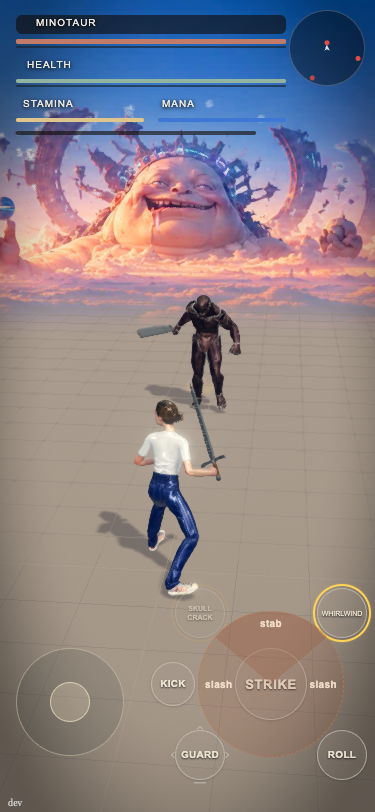
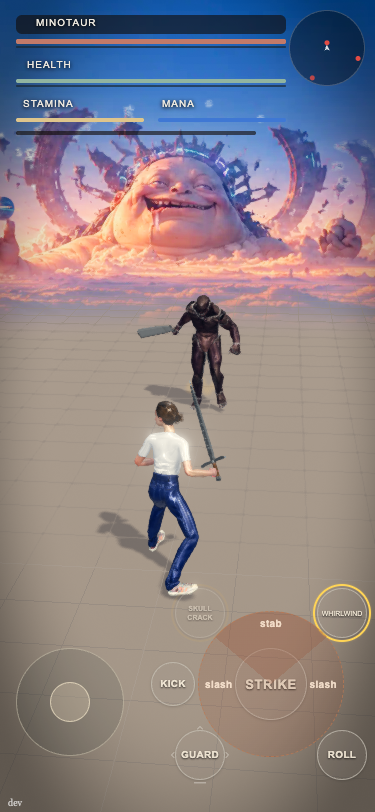
fx: ring dropMetres 30 so the alien sits in a portrait phone's sky band

diff --git a/src/sim/validate.js b/src/sim/validate.js
@@ -498,7 +498,7 @@ function checkSkyline(s) {
 
 // data/stage.json `skyline.ring` (src/fight/skyring.ts): the south, east and west plates. Plain WebP file names, one plate per bearing, ramps inside the overlap, colours as #rrggbb, query words that
 // differ from the other skyline ones, and the tallest arc (the baked picture's aspect at `spanDegrees`) inside the sky cylinder and the far plane.
-export const SKYRING_KEYS = ['about', 'on', 'query', 'v1', 'spanDegrees', 'overlapDegrees', 'orderOffset', 'topFadeFraction', 'bottomFadeFraction', 'segments', 'bakedAspect', 'lazy', 'desktop', 'bake', 'plates'];
+export const SKYRING_KEYS = ['about', 'on', 'query', 'v1', 'spanDegrees', 'overlapDegrees', 'dropMetres', 'orderOffset', 'topFadeFraction', 'bottomFadeFraction', 'segments', 'bakedAspect', 'lazy', 'desktop', 'bake', 'plates'];
 export const SKYRING_PLATE_KEYS = ['id', 'direction', 'on', 'compassDegrees', 'mobile', 'desktop', 'rampLeftDegrees', 'rampRightDegrees', 'grade', 'bake'];
 function checkSkyRing(s) {
   const e = [], at = (p, m) => e.push(`stage.skyline.ring.${p}: ${m}`), r = s.ring, obj = (o) => o !== null && typeof o === 'object' && !Array.isArray(o);
@@ -509,7 +509,7 @@ function checkSkyRing(s) {
   const taken = [s.query, s.followQuery, s.views && s.views.query, s.views && s.views.foeFadeQuery, s.fold && s.fold.query, s.plate && s.plate.query, s.plate && s.plate.flatQuery, s.plate && s.plate.anim && s.plate.anim.query];
   if (typeof r.query === 'string' && taken.includes(r.query)) at('query', 'must differ from the other skyline query words');
   const rng = (o, k, lo, hi, int, path = k) => { if (!Number.isFinite(o[k]) || o[k] < lo || o[k] > hi || (int && !Number.isInteger(o[k]))) at(path, `must be ${int ? 'an integer' : 'a finite number'} in ${lo}..${hi}`); };
-  rng(r, 'spanDegrees', 90, 120); rng(r, 'overlapDegrees', 0, 30); rng(r, 'orderOffset', 1, 90, true); rng(r, 'topFadeFraction', 0, 0.5); rng(r, 'bottomFadeFraction', 0, 0.5); rng(r, 'segments', 8, 256, true); rng(r, 'bakedAspect', 1, 6);
+  rng(r, 'spanDegrees', 90, 120); rng(r, 'overlapDegrees', 0, 30); rng(r, 'dropMetres', 0, 60); rng(r, 'orderOffset', 1, 90, true); rng(r, 'topFadeFraction', 0, 0.5); rng(r, 'bottomFadeFraction', 0, 0.5); rng(r, 'segments', 8, 256, true); rng(r, 'bakedAspect', 1, 6);
   if (Number.isFinite(r.spanDegrees) && Number.isFinite(r.overlapDegrees) && r.spanDegrees !== 90 + r.overlapDegrees) at('overlapDegrees', 'must be spanDegrees minus 90 (each plate is a quarter turn plus the overlap it shares with its neighbour)');
   if (Number.isInteger(r.orderOffset) && s.fold && Number.isInteger(s.fold.orderOffset) && !(r.orderOffset > s.fold.orderOffset)) at('orderOffset', 'must draw after the folded floor (above fold.orderOffset)');
   if (Number.isInteger(r.orderOffset) && s.plate && Number.isInteger(s.plate.orderOffset) && Array.isArray(r.plates) && !(r.orderOffset + r.plates.length <= s.plate.orderOffset)) at('orderOffset', 'the plates must all draw before the north plate (under plate.orderOffset)');

diff --git a/src/fight/skyring.ts b/src/fight/skyring.ts
@@ -115,7 +115,7 @@ export function createSkyRing(o: RingOptions): SkyRing {
       });
       const mesh = new THREE.Mesh(geometry, material);
       mesh.name = `skyring-${p.id}`; mesh.renderOrder = -1000 + row.orderOffset + index; mesh.frustumCulled = false;
-      mesh.position.y = ringCentreY(o.horizonY, h);
+      mesh.position.y = ringCentreY(o.horizonY - row.dropMetres, h);   // lowered by `dropMetres` so the subjects (the alien) sit in the band of sky a portrait phone shows
       group.add(mesh); meshes.set(p.id, mesh); states.set(p.id, 'fading');
     }).catch(() => { states.set(p.id, 'failed'); });
   };
